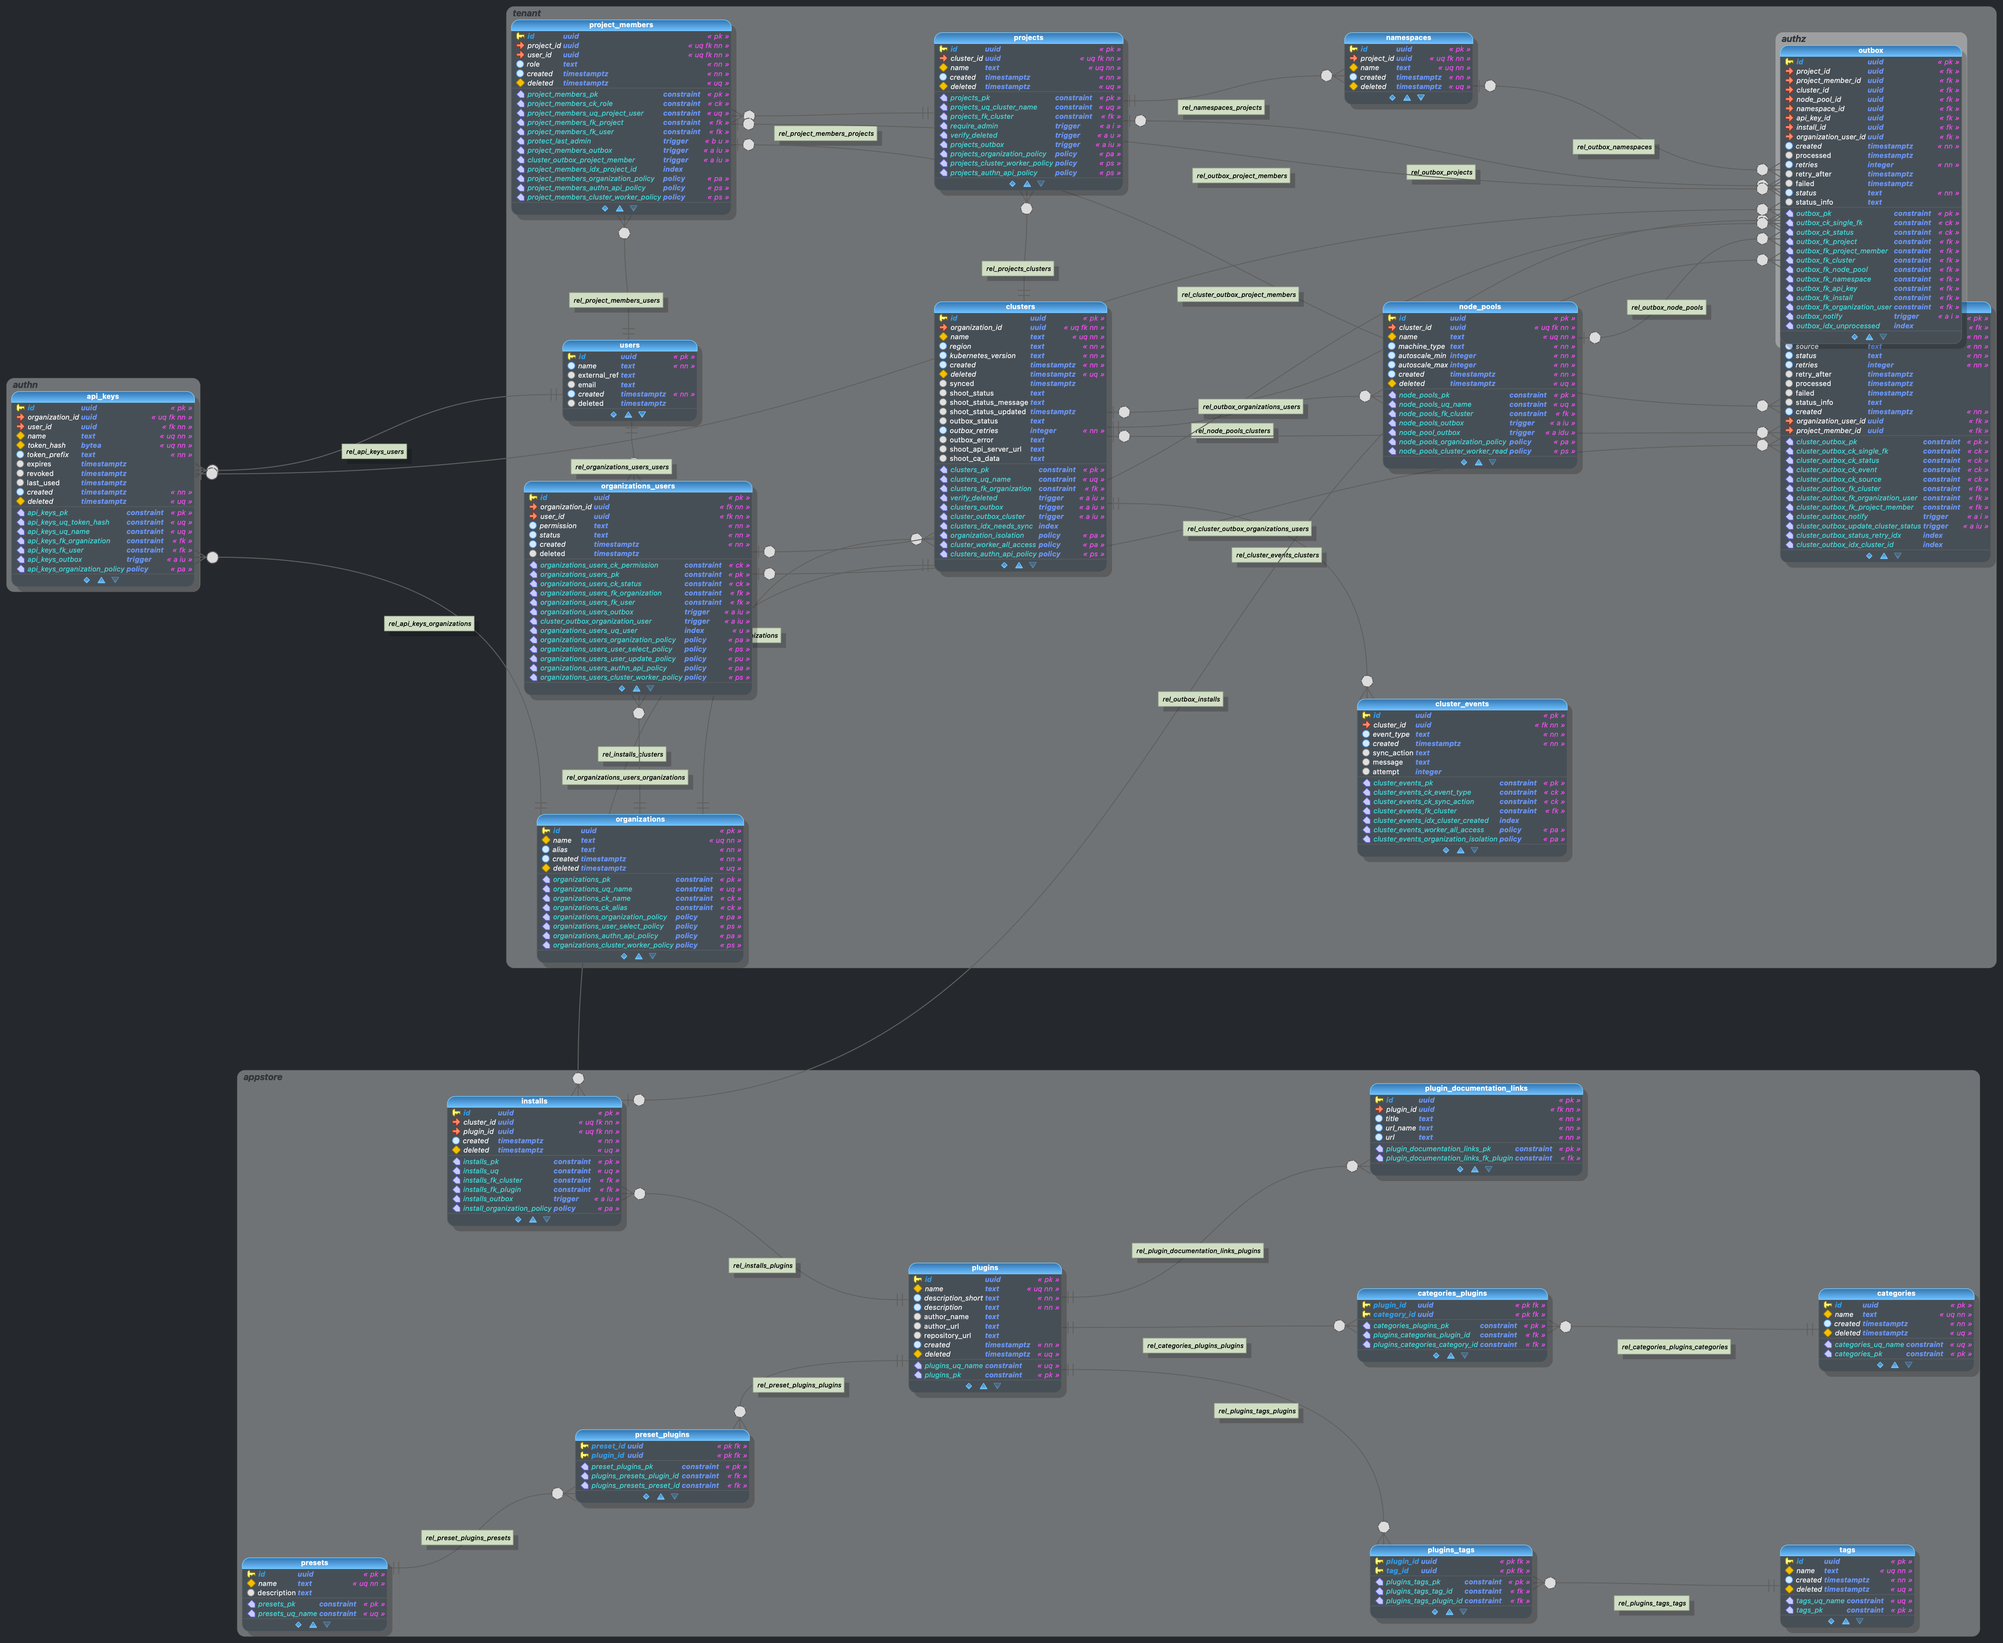
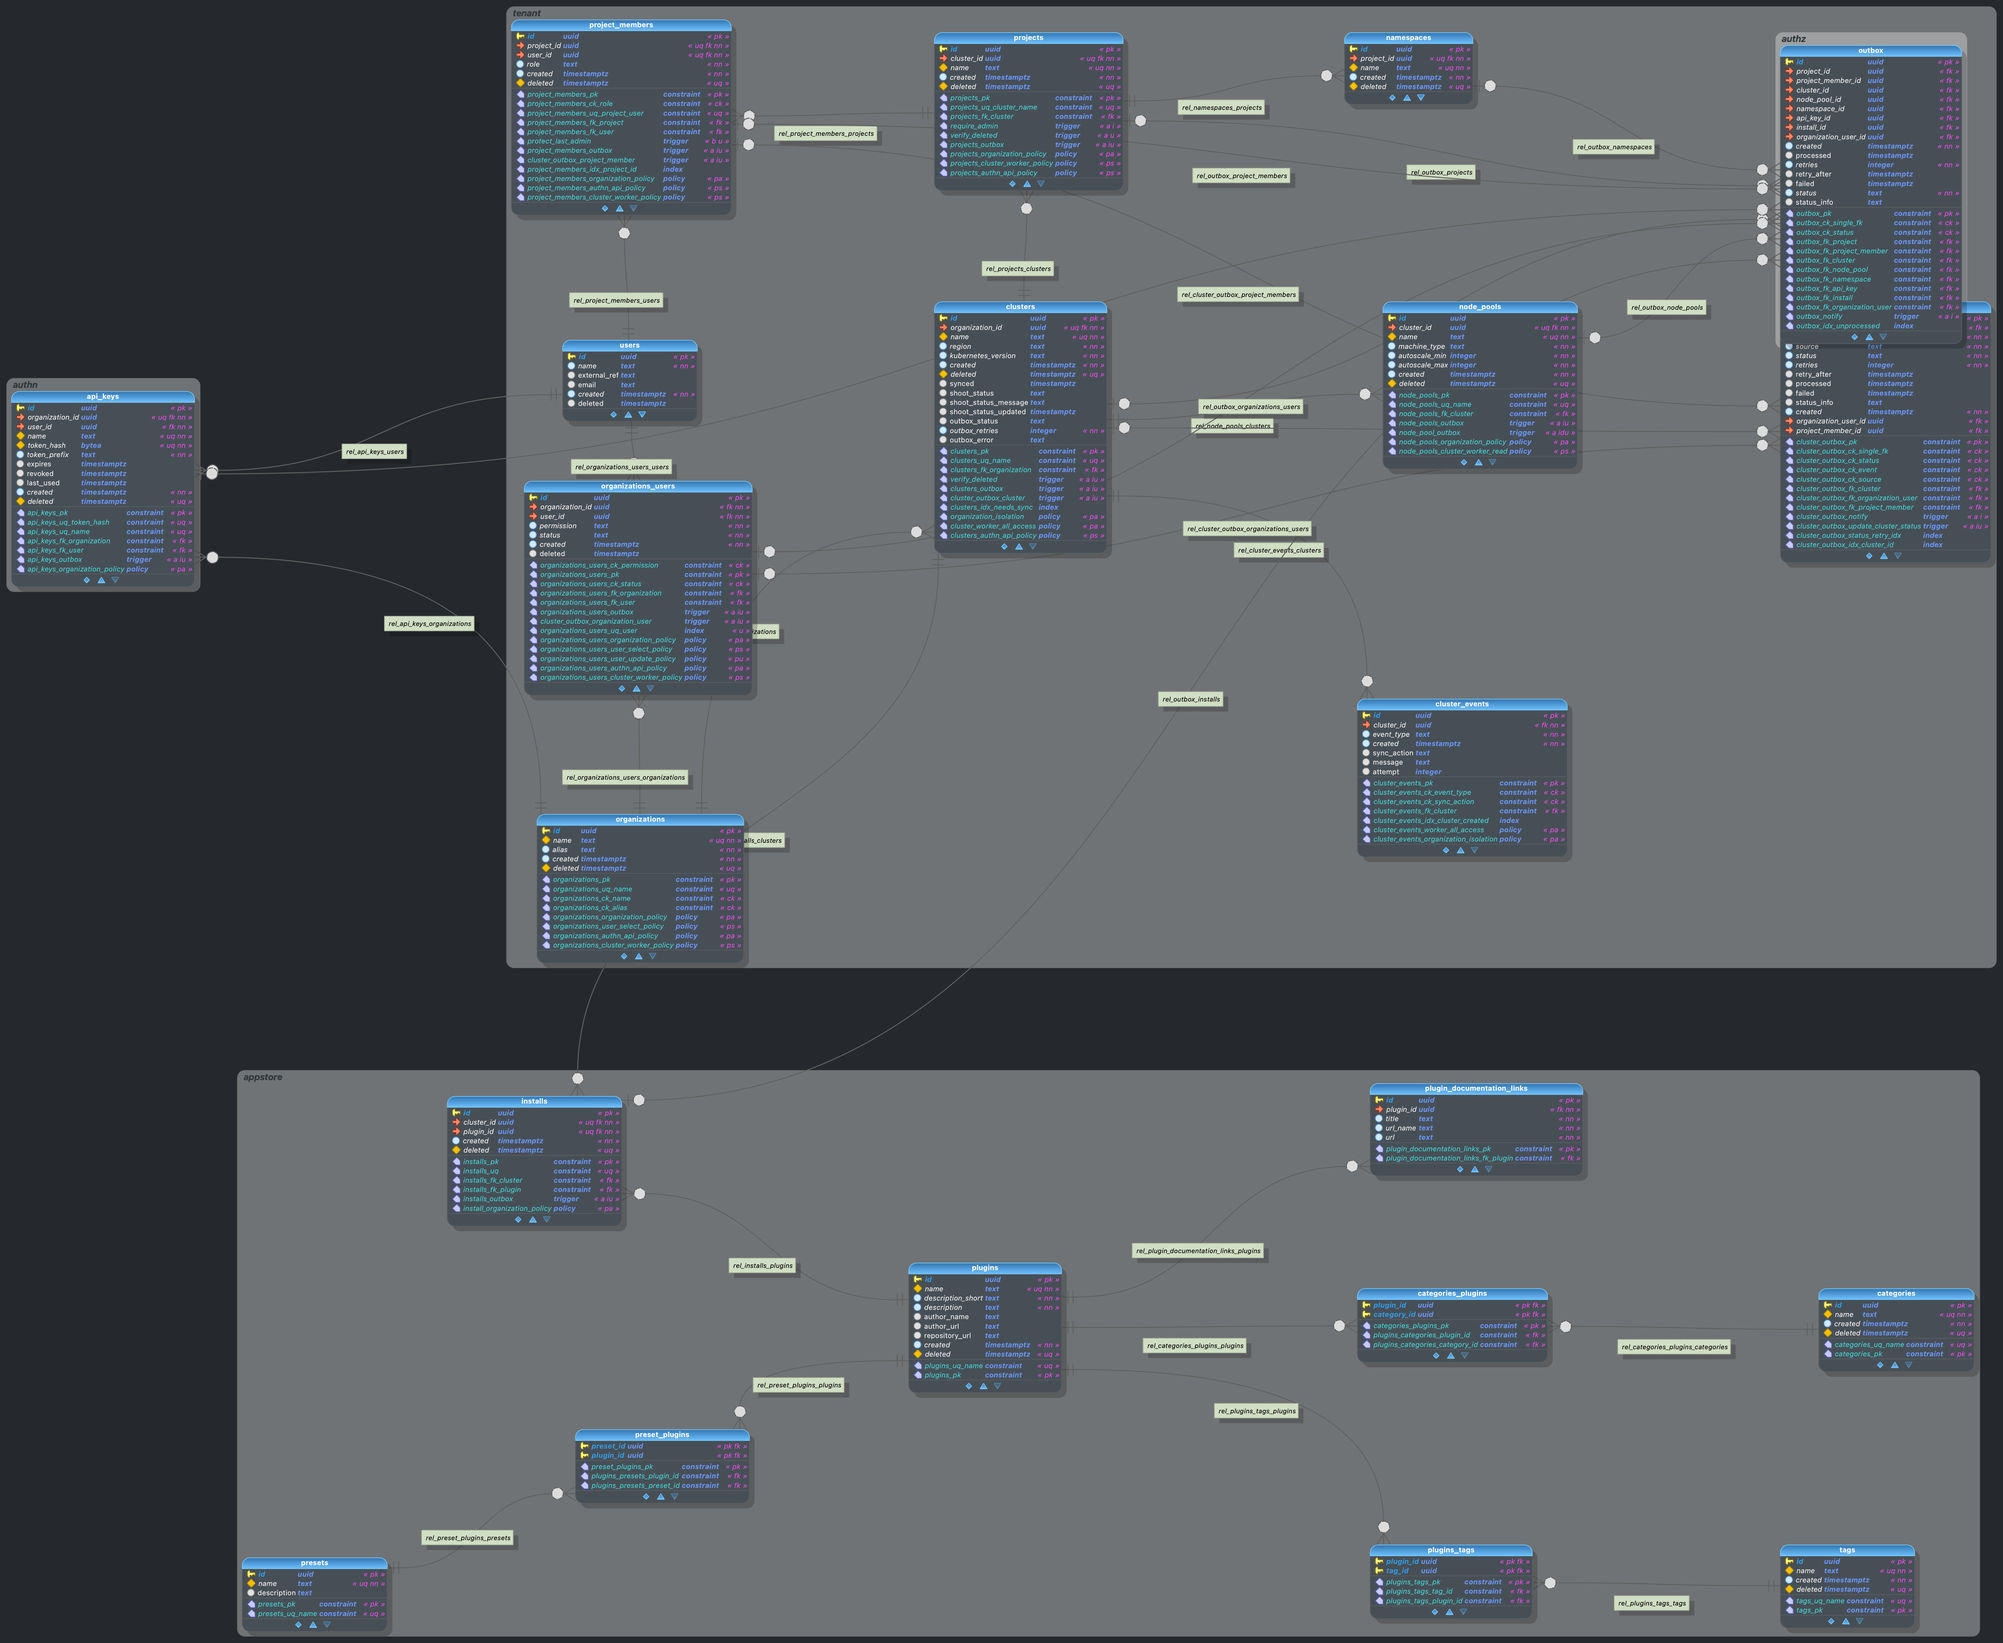
fix: review fixes for cluster auth in proxy (#826)
- Fix tokenCache nil init order in server.go (was passed to
  NewMultiClusterProxy before being created)
- Use externalUrls.kubeApiProxy in Helm template instead of separate
  organizationApi.kubeApiProxyURL key (fixes missing env var in
  sandbox/production)
- Remove retry transport (unnecessary given proactive token refresh)
- Replace sync.Map with jellydator/ttlcache for bounded token cache
  with automatic expiry cleanup
- Remove shoot_api_server_url and shoot_ca_data from DBM schema
- Clean up unused context key types and aliases

diff --git a/console-frontend/src/app/plugin-resources/kube-plugin-loader.service.ts b/console-frontend/src/app/plugin-resources/kube-plugin-loader.service.ts
@@ -1,6 +1,5 @@
 import { Injectable, inject } from '@angular/core';
 import { ConfigService } from '../config.service';
-import OrganizationContextService from '../organization-context.service';
 import PluginRegistryService from './plugin-registry.service';
 import PluginResourceStoreService from './plugin-resource-store.service';
 import type { ParsedCrd, KubeResource } from './types';
@@ -13,18 +12,13 @@ export default class KubePluginLoaderService {
 
   private configService = inject(ConfigService);
 
-  private orgContext = inject(OrganizationContextService);
-
   async loadCrdAndResources(
     pluginName: string,
     resourceKind: string,
     clusterId: string,
   ): Promise<{ crd: ParsedCrd | undefined; resources: KubeResource[] }> {
-    const orgId = this.orgContext.currentOrganizationId();
-    if (!orgId) return { crd: undefined, resources: [] };
-
     const kubeApiProxyUrl = this.configService.getConfig().kubeApiProxyUrl;
-    await this.registry.loadCrdsForPlugin(pluginName, clusterId, kubeApiProxyUrl, orgId);
+    await this.registry.loadCrdsForPlugin(pluginName, clusterId, kubeApiProxyUrl);
     const crd = this.registry.getCrd(pluginName, resourceKind, clusterId);
     if (!crd) return { crd: undefined, resources: [] };
 
@@ -32,7 +26,6 @@ export default class KubePluginLoaderService {
       crd,
       clusterId,
       kubeApiProxyUrl,
-      orgId,
       pluginName,
     );
     return { crd, resources };

diff --git a/console-frontend/src/app/plugin-resources/plugin-registry.service.ts b/console-frontend/src/app/plugin-resources/plugin-registry.service.ts
@@ -102,7 +102,6 @@ export default class PluginRegistryService {
     pluginName: string,
     clusterId: string,
     kubeApiProxyUrl: string,
-    orgId: string,
   ): Promise<void> {
     const plugin = this.getPlugin(pluginName);
     if (!plugin) return;
@@ -111,10 +110,9 @@ export default class PluginRegistryService {
 
     await Promise.allSettled(
       plugin.crds.map(async (crdName) => {
-        const url = `${base}/apis/apiextensions.k8s.io/v1/customresourcedefinitions/${crdName}`;
+        const url = `${base}/clusters/${clusterId}/apis/apiextensions.k8s.io/v1/customresourcedefinitions/${crdName}`;
         const response = await fetch(url, {
           credentials: 'include',
-          headers: { 'Fun-Organization': orgId, 'Fun-Cluster': clusterId },
         });
         if (!response.ok) {
           // eslint-disable-next-line no-console

diff --git a/console-frontend/src/app/plugin-resources/plugin-resource-store.service.ts b/console-frontend/src/app/plugin-resources/plugin-resource-store.service.ts
@@ -10,17 +10,15 @@ export default class PluginResourceStoreService {
     crd: ParsedCrd,
     clusterId: string,
     kubeApiProxyUrl: string,
-    orgId: string,
     pluginName: string,
   ): Promise<KubeResource[]> {
     const base = kubeApiProxyUrl.replace(/\/$/, '');
     // TODO: Support namespaced resources by adding /namespaces/{ns}/ when crd.scope === 'Namespaced'.
     // Currently fetches cluster-scoped list; real mode will return 404 for namespaced CRDs.
-    const url = `${base}/apis/${crd.group}/${crd.version}/${crd.plural}`;
+    const url = `${base}/clusters/${clusterId}/apis/${crd.group}/${crd.version}/${crd.plural}`;
 
     const response = await fetch(url, {
       credentials: 'include',
-      headers: { 'Fun-Organization': orgId, 'Fun-Cluster': clusterId },
     });
 
     if (!response.ok) {

diff --git a/console-frontend/src/proto-version.gen.ts b/console-frontend/src/proto-version.gen.ts
@@ -1,2 +1,2 @@
 // Auto-generated file - do not edit
-export default '085d358fc0ed';
+export default 'bd4f8750a881';

diff --git a/kube-api-proxy/pkg/token/cache.go b/kube-api-proxy/pkg/token/cache.go
@@ -6,10 +6,10 @@ import (
 	"errors"
 	"fmt"
 	"log/slog"
-	"sync"
 	"time"
 
 	"github.com/google/uuid"
+	"github.com/jellydator/ttlcache/v3"
 	"golang.org/x/sync/singleflight"
 	authenticationv1 "k8s.io/api/authentication/v1"
 	apierrors "k8s.io/apimachinery/pkg/api/errors"
@@ -41,37 +41,38 @@ type cacheKey struct {
 }
 
 type cachedToken struct {
-	token     string
-	expiresAt time.Time
-	issuedAt  time.Time
+	token    string
+	issuedAt time.Time
+	ttl      time.Duration
 }
 
 // shouldRefresh returns true if the token has passed refreshRatio of its TTL.
 func (ct *cachedToken) shouldRefresh() bool {
-	ttl := ct.expiresAt.Sub(ct.issuedAt)
-	refreshAt := ct.issuedAt.Add(time.Duration(float64(ttl) * refreshRatio))
+	refreshAt := ct.issuedAt.Add(time.Duration(float64(ct.ttl) * refreshRatio))
 	return time.Now().After(refreshAt)
-}
-
-// isExpired returns true if the token has expired.
-func (ct *cachedToken) isExpired() bool {
-	return time.Now().After(ct.expiresAt)
 }
 
 // Cache manages per-(user, cluster) SA tokens with proactive refresh.
 type Cache struct {
 	gardener *gardener.Client
 	logger   *slog.Logger
-	tokens   sync.Map           // cacheKey → *cachedToken
+	tokens   *ttlcache.Cache[cacheKey, *cachedToken]
 	group    singleflight.Group // deduplicates concurrent token requests
 }
 
 // NewCache creates a new token cache.
 func NewCache(gc *gardener.Client, logger *slog.Logger) *Cache {
-	return &Cache{
+	c := &Cache{
 		gardener: gc,
 		logger:   logger,
+		tokens: ttlcache.New[cacheKey, *cachedToken](
+			// No default TTL — each entry gets its own TTL from the API server response.
+			ttlcache.WithTTL[cacheKey, *cachedToken](ttlcache.NoTTL),
+		),
 	}
+	// Start the automatic expired-entry cleanup goroutine.
+	go c.tokens.Start()
+	return c
 }
 
 // GetToken returns a valid SA token for the given user and cluster.
@@ -80,15 +81,13 @@ func NewCache(gc *gardener.Client, logger *slog.Logger) *Cache {
 func (c *Cache) GetToken(ctx context.Context, userID uuid.UUID, clusterID string) (string, error) {
 	key := cacheKey{userID: userID, clusterID: clusterID}
 
-	if v, ok := c.tokens.Load(key); ok {
-		ct := v.(*cachedToken)
-		if !ct.isExpired() {
-			if ct.shouldRefresh() {
-				// Proactive async refresh — don't block the request.
-				go c.refresh(context.WithoutCancel(ctx), key)
-			}
-			return ct.token, nil
+	if item := c.tokens.Get(key); item != nil {
+		ct := item.Value()
+		if ct.shouldRefresh() {
+			// Proactive async refresh — don't block the request.
+			go c.refresh(context.WithoutCancel(ctx), key)
 		}
+		return ct.token, nil
 	}
 
 	// Cache miss or expired — synchronous fetch.
@@ -160,16 +159,18 @@ func (c *Cache) requestToken(ctx context.Context, key cacheKey) (string, error) 
 
 	// Use the actual expiration from the API server response, not the requested value.
 	now := time.Now()
+	ttl := result.Status.ExpirationTimestamp.Sub(now)
 	ct := &cachedToken{
-		token:     result.Status.Token,
-		expiresAt: result.Status.ExpirationTimestamp.Time,
-		issuedAt:  now,
+		token:    result.Status.Token,
+		issuedAt: now,
+		ttl:      ttl,
 	}
-	c.tokens.Store(key, ct)
+	// Store with actual TTL — ttlcache evicts automatically on expiry.
+	c.tokens.Set(key, ct, ttl)
 
 	c.logger.InfoContext(ctx, "SA token issued",
 		"user_id", key.userID, "cluster_id", key.clusterID,
-		"expires_at", ct.expiresAt)
+		"expires_at", result.Status.ExpirationTimestamp)
 
 	return ct.token, nil
 }

diff --git a/kube-api-proxy/pkg/kube/multi_cluster.go b/kube-api-proxy/pkg/kube/multi_cluster.go
@@ -13,7 +13,6 @@ import (
 	"golang.org/x/sync/singleflight"
 
 	"github.com/fundament-oss/fundament/kube-api-proxy/pkg/gardener"
-	"github.com/fundament-oss/fundament/kube-api-proxy/pkg/token"
 )
 
 // adminKubeconfigRefreshRatio is the fraction of TTL at which to proactively
@@ -25,11 +24,10 @@ const adminKubeconfigRefreshRatio = 0.7
 // per cluster by fetching a short-lived admin kubeconfig from Gardener,
 // caching it until 70% of its TTL before re-fetching.
 type MultiClusterProxy struct {
-	gardener   *gardener.Client
-	tokenCache *token.Cache
-	logger     *slog.Logger
-	proxies    sync.Map           // string(clusterID) → *cachedProxy
-	group      singleflight.Group // deduplicates concurrent proxy construction for the same cluster
+	gardener *gardener.Client
+	logger   *slog.Logger
+	proxies  sync.Map           // string(clusterID) → *cachedProxy
+	group    singleflight.Group // deduplicates concurrent proxy construction for the same cluster
 }
 
 type cachedProxy struct {
@@ -39,11 +37,10 @@ type cachedProxy struct {
 
 // NewMultiClusterProxy returns a MultiClusterProxy that fetches kubeconfigs
 // from Gardener on demand using the provided gardener.Client.
-func NewMultiClusterProxy(gc *gardener.Client, tc *token.Cache, logger *slog.Logger) *MultiClusterProxy {
+func NewMultiClusterProxy(gc *gardener.Client, logger *slog.Logger) *MultiClusterProxy {
 	return &MultiClusterProxy{
-		gardener:   gc,
-		tokenCache: tc,
-		logger:     logger,
+		gardener: gc,
+		logger:   logger,
 	}
 }
 
@@ -55,11 +52,6 @@ type ClusterIDContextKey struct{}
 
 // SATokenContextKey is used to pass the per-user SA token from the handler to the proxy Director.
 type SATokenContextKey struct{}
-
-// UserIDContextKey is used to pass the user ID from the handler for 401 retry token refresh.
-type UserIDContextKey struct{}
-
-type saTokenContextKey = SATokenContextKey
 
 func (m *MultiClusterProxy) ServeHTTP(w http.ResponseWriter, r *http.Request) {
 	clusterID, ok := r.Context().Value(ClusterIDContextKey{}).(string)
@@ -110,16 +102,7 @@ func (m *MultiClusterProxy) buildProxy(ctx context.Context, clusterID string) (*
 	ttl := time.Until(adminKC.ExpiresAt)
 	refreshAt := time.Now().Add(time.Duration(float64(ttl) * adminKubeconfigRefreshRatio))
 
-	transport := c.Transport()
-	if m.tokenCache != nil {
-		transport = &retryTransport{
-			inner:      transport,
-			tokenCache: m.tokenCache,
-			logger:     m.logger,
-		}
-	}
-
-	proxy := buildReverseProxy(c.Host(), transport, m.logger)
+	proxy := buildReverseProxy(c.Host(), c.Transport(), m.logger)
 	m.proxies.Store(clusterID, &cachedProxy{
 		proxy:     proxy,
 		expiresAt: refreshAt,
@@ -142,7 +125,7 @@ func buildReverseProxy(target *url.URL, transport http.RoundTripper, logger *slo
 			req.Header.Del("Authorization")
 			req.Header.Del("Cookie")
 			// Inject per-user SA token if present in context.
-			if saToken, ok := req.Context().Value(saTokenContextKey{}).(string); ok && saToken != "" {
+			if saToken, ok := req.Context().Value(SATokenContextKey{}).(string); ok && saToken != "" {
 				req.Header.Set("Authorization", "Bearer "+saToken)
 			}
 		},

diff --git a/kube-api-proxy/pkg/proxy/server.go b/kube-api-proxy/pkg/proxy/server.go
@@ -11,7 +11,7 @@ import (
 	"github.com/fundament-oss/fundament/common/authz"
 	"github.com/fundament-oss/fundament/kube-api-proxy/pkg/gardener"
 	"github.com/fundament-oss/fundament/kube-api-proxy/pkg/kube"
-	"github.com/fundament-oss/fundament/kube-api-proxy/pkg/token"
+	tokenpkg "github.com/fundament-oss/fundament/kube-api-proxy/pkg/token"
 )
 
 type Config struct {
@@ -25,7 +25,7 @@ type Server struct {
 	logger        *slog.Logger
 	authValidator *auth.Validator
 	authz         *authz.Client
-	tokenCache    *token.Cache
+	tokenCache    *tokenpkg.Cache
 	kubeHandler   http.Handler
 	handler       http.Handler
 }
@@ -36,11 +36,11 @@ func New(logger *slog.Logger, cfg *Config, authzClient *authz.Client) (*Server, 
 	}
 
 	var kubeHandler http.Handler
-	var tokenCache *token.Cache
+	var tokenCache *tokenpkg.Cache
 	switch cfg.Mode {
 	case "real":
-		kubeHandler = kube.NewMultiClusterProxy(cfg.GardenerClient, tokenCache, logger)
-		tokenCache = token.NewCache(cfg.GardenerClient, logger)
+		tokenCache = tokenpkg.NewCache(cfg.GardenerClient, logger)
+		kubeHandler = kube.NewMultiClusterProxy(cfg.GardenerClient, logger)
 	case "mock":
 		kubeHandler = &kube.MockClient{}
 	default:

diff --git a/kube-api-proxy/pkg/proxy/handler.go b/kube-api-proxy/pkg/proxy/handler.go
@@ -10,7 +10,7 @@ import (
 
 	"github.com/fundament-oss/fundament/common/authz"
 	"github.com/fundament-oss/fundament/kube-api-proxy/pkg/kube"
-	"github.com/fundament-oss/fundament/kube-api-proxy/pkg/token"
+	tokenpkg "github.com/fundament-oss/fundament/kube-api-proxy/pkg/token"
 )
 
 // allowedPathPrefixes are the Kubernetes API path prefixes the proxy forwards.
@@ -68,7 +68,7 @@ func (s *Server) handleClusterProxy(w http.ResponseWriter, r *http.Request) {
 	if s.tokenCache != nil {
 		saToken, err := s.tokenCache.GetToken(ctx, claims.UserID(), clusterID.String())
 		if err != nil {
-			if errors.Is(err, token.ErrSyncPending) {
+			if errors.Is(err, tokenpkg.ErrSyncPending) {
 				http.Error(w, "service account sync pending, try again shortly", http.StatusServiceUnavailable)
 				return
 			}

diff --git a/kube-api-proxy/pkg/proxy/context.go b/kube-api-proxy/pkg/proxy/context.go
@@ -8,14 +8,16 @@ import (
 	"github.com/fundament-oss/fundament/kube-api-proxy/pkg/kube"
 )
 
+type userIDContextKey struct{}
+
 // WithUserID stores user_id in context.
 func WithUserID(ctx context.Context, userID uuid.UUID) context.Context {
-	return context.WithValue(ctx, kube.UserIDContextKey{}, userID)
+	return context.WithValue(ctx, userIDContextKey{}, userID)
 }
 
 // UserIDFromContext extracts user_id from context.
 func UserIDFromContext(ctx context.Context) (uuid.UUID, bool) {
-	userID, ok := ctx.Value(kube.UserIDContextKey{}).(uuid.UUID)
+	userID, ok := ctx.Value(userIDContextKey{}).(uuid.UUID)
 	return userID, ok
 }
 

diff --git a/common/dbversion/version.go b/common/dbversion/version.go
@@ -1,4 +1,4 @@
 package dbversion
 
 // LatestVersion is the latest version for the db migrations.
-const LatestVersion = 11
+const LatestVersion = 12

diff --git a/kube-api-proxy/README.md b/kube-api-proxy/README.md
@@ -61,7 +61,7 @@ Two-level cache minimizes latency and Gardener API calls:
 
 ## Local development
 
-The proxy runs behind ingress-nginx in k3d. HTTPS is required for kubectl exec credential plugins (client-go refuses exec over HTTP). Local dev uses port 8443 mapped to a fixed NodePort 30443 to bypass a klipper ServiceLB TLS bug.
+The proxy runs behind ingress-nginx in k3d. HTTPS is required for kubectl exec credential plugins (client-go refuses exec over HTTP). Local dev uses port 8443 mapped to a fixed NodePort 30443.
 
 ```bash
 # With real Gardener (requires gardener-up first)
